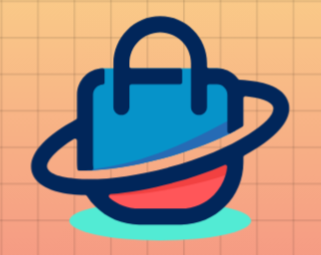
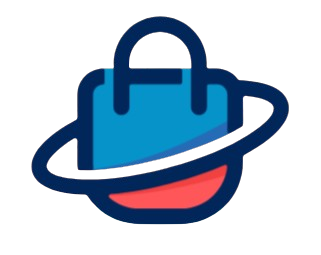
maine change kar diya hai

diff --git a/style.css b/style.css
@@ -2,27 +2,36 @@ body {
   margin: 0;
   font-family: 'Segoe UI', sans-serif;
   /* background-image: url('https://img.freepik.com/free-photo/flat-lay-blue-desk-with-laptop-headphones_23-2148291112.jpg'); */
-  background: linear-gradient(rgb(252, 227, 138) 0%, rgb(57, 225, 6) 100%);;
+  background: linear-gradient(rgb(216, 199, 137) 0%, rgb(225, 103, 146) 100%);
+  ;
   background-size: cover;
   background-position: center;
   background-attachment: fixed;
   color: #fff;
 }
+
 header {
-  background: #a40d0d;
+  background: #ee5050;;
   color: #FFF8DC;
   padding: 1rem 2rem;
   display: flex;
   justify-content: space-between;
   align-items: center;
-  font-family: 'Times New Roman', Times, serif;
+  font-family:'Lucida Sans', 'Lucida Sans Regular', 'Lucida Grande', 'Lucida Sans Unicode', Geneva, Verdana, sans-serif
 }
+
 nav a {
   color: #000000;
   margin: 0 1rem;
+  border: 1px solid black;
+  border-radius: px;
   text-decoration: none;
 }
-input[type="text"], input[type="email"], textarea, select {
+
+input[type="text"],
+input[type="email"],
+textarea,
+select {
   width: 100%;
   max-width: 500px;
   margin: 1rem 0;
@@ -30,6 +39,7 @@ input[type="text"], input[type="email"], textarea, select {
   border-radius: 8px;
   border: none;
 }
+
 button {
   background: #1cd780;
   color: #000;
@@ -38,46 +48,55 @@ button {
   border-radius: 8px;
   cursor: pointer;
 }
+
 .product-grid {
   display: grid;
   grid-template-columns: repeat(auto-fit, minmax(300px, 1fr));
   gap: 4rem;
   padding: 2rem;
 }
+
 .card {
   background: #1a1a1a;
   padding: 1rem;
   border-radius: 10px;
-  box-shadow: 0 4px 12px rgba(0,0,0,0.6);
+  box-shadow: 0 4px 12px rgba(0, 0, 0, 0.6);
 }
+
 .card img {
   width: 100%;
   border-radius: 8px;
 }
+
 .reviews {
   margin-top: 0.5rem;
   font-size: 0.9rem;
   color: #ccc;
 }
+
 .offer {
   margin-top: 0.5rem;
   color: #00ff99;
   font-weight: bold;
 }
+
 footer {
   background: #111;
   color: #00c6ff;
   text-align: center;
   padding: 1rem;
 }
+
 .logo {
   border-radius: 20%;
-  height: 100px;
+  height: 50px;
 }
+
 #orderSummary img {
   display: block;
   margin: 10px auto;
 }
+
 .success-box {
   display: none;
   text-align: center;
@@ -92,15 +111,31 @@ footer {
 }
 
 @keyframes pop {
-  0% { transform: scale(0); opacity: 0; }
-  50% { transform: scale(1.2); opacity: 1; }
-  100% { transform: scale(1); }
+  0% {
+    transform: scale(0);
+    opacity: 0;
+  }
+
+  50% {
+    transform: scale(1.2);
+    opacity: 1;
+  }
+
+  100% {
+    transform: scale(1);
+  }
 }
 
 @keyframes fadeIn {
-  from { opacity: 0; }
-  to { opacity: 1; }
+  from {
+    opacity: 0;
+  }
+
+  to {
+    opacity: 1;
+  }
 }
+
 .cart-grid {
   display: flex;
   flex-wrap: wrap;
@@ -122,6 +157,7 @@ footer {
   gap: 15px;
   margin-bottom: 15px;
 }
+
 .cart-card button {
   margin-top: 10px;
   padding: 6px 12px;
@@ -133,14 +169,17 @@ footer {
 }
 
 .cart-card button:hover {
-  background-color: #e60000;
+  background-color: #7be600;
 }
+
 .cart-card {
   display: flex;
   align-items: center;
   gap: 15px;
-  background-color: #000; /* Black background */
-  color: #fff; /* White text for contrast */
+  background-color: #000;
+  /* Black background */
+  color: #fff;
+  /* White text for contrast */
   padding: 15px;
   border-radius: 10px;
   box-shadow: 0 2px 6px rgba(255, 255, 255, 0.1);
@@ -166,16 +205,24 @@ footer {
 .cart-card button:hover {
   background-color: #00c6ff;
 }
+
 #checkoutForm {
   text-align: center;
 }
+
 .content-overlay {
-  background-color: rgba(0, 0, 0, 0.6); /* semi-transparent black */
+  background-color: rgba(0, 0, 0, 0.6);
+  /* semi-transparent black */
   padding: 40px;
   border-radius: 10px;
   margin: 20px;
 }
-h2, h3, p, li, span {
+
+h2,
+h3,
+p,
+li,
+span {
   color: #fff;
 }
 
@@ -188,17 +235,21 @@ a.button {
   display: inline-block;
   margin-top: 10px;
 }
+
 body::before {
   content: "";
   position: fixed;
-  top: 0; left: 0;
-  width: 100%; height: 100%;
-  background: linear-gradient(to bottom right, rgba(0,0,0,0.7), rgba(0,0,0,0.4));
+  top: 0;
+  left: 0;
+  width: 100%;
+  height: 100%;
+  background: linear-gradient(to bottom right, rgba(0, 0, 0, 0.7), rgba(0, 0, 0, 0.4));
   z-index: -1;
 }
+
 .ad-grid {
-  display: flex; 
-  justify-content: space-around; 
+  display: flex;
+  justify-content: space-around;
   align-items: center;
 }
 
@@ -215,7 +266,7 @@ body::before {
   width: 300px;
   border-radius: 10px;
   overflow: hidden;
-  box-shadow: 0 4px 12px rgba(0,0,0,0.1);
+  box-shadow: 0 4px 12px rgba(0, 0, 0, 0.1);
   transition: transform 0.3s ease;
 }
 
@@ -232,7 +283,7 @@ body::before {
 .banner-caption {
   position: absolute;
   bottom: 0;
-  background: rgba(0,0,0,0.6);
+  background: rgba(0, 0, 0, 0.6);
   color: white;
   padding: 15px;
   width: 100%;
@@ -243,31 +294,35 @@ body::before {
   margin: 0;
   font-size: 1.2rem;
 }
+
 .ad-container {
-    display: flex;
-    gap: 20px;
+  padding-left: 6%;
+  display: grid;
+  grid-template-columns: repeat(auto-fit, minmax(295px, 1fr));
+  gap: 20px;
 }
 
 .ad1 img {
-    width: 272px;
-    height: 233px;
-    border-radius: 12px;
+  width: 272px;
+  height: 233px;
+  border-radius: 12px;
 }
+
 .nav-bar {
-    display: flex;
-    align-items: center;
-    gap: 20px;
-    font-family: sans-serif;
-  }
+  display: flex;
+  align-items: center;
+  gap: 20px;
+  font-family: sans-serif;
+}
 
-  .nav-bar a {
-    text-decoration: none;
-    color: black;
-    padding: 0 10px;
-  }
+.nav-bar a {
+  text-decoration: none;
+  color: black;
+  padding: 0 10px;
+}
 
-  .separator {
-    width: 1px;
-    height: 20px;
-    background-color: black;
-  }
+.separator {
+  width: 1px;
+  height: 20px;
+  background-color: black;
+}
